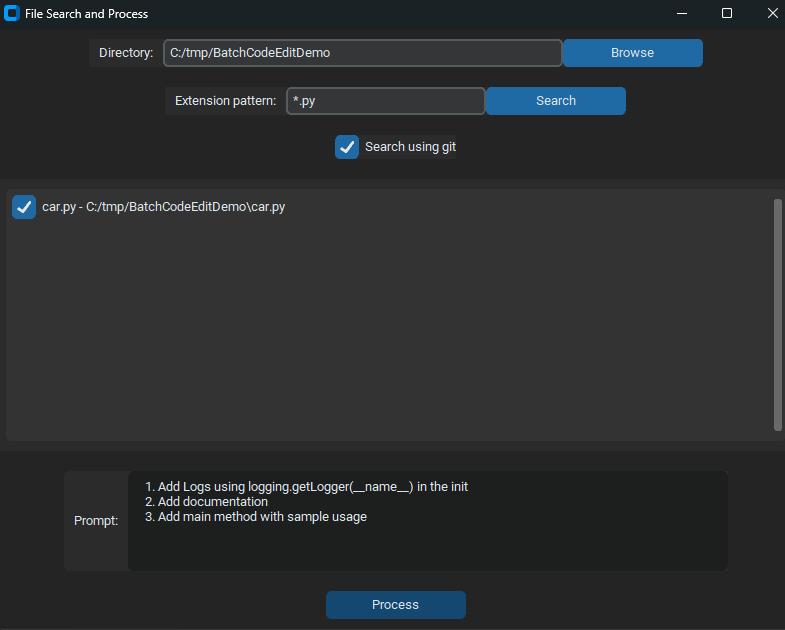
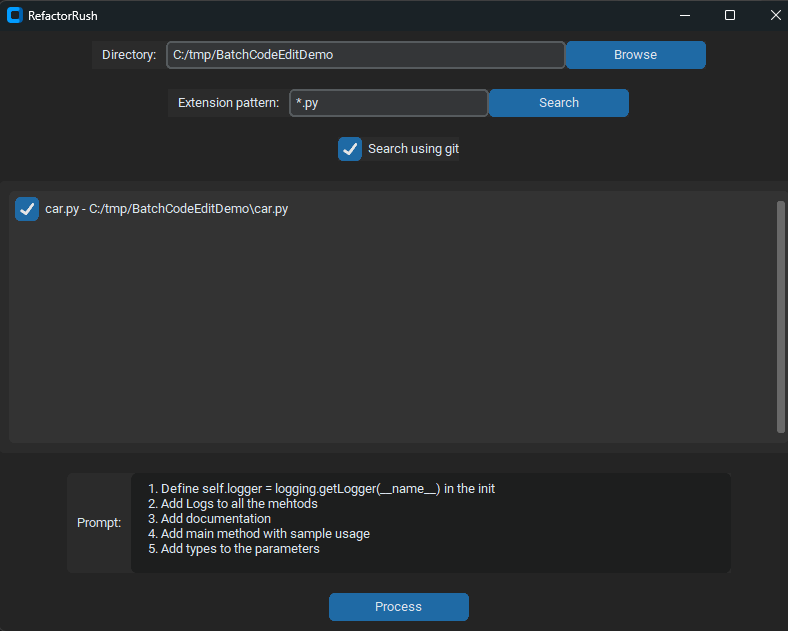
readme creation

diff --git a/program.py b/program.py
@@ -12,7 +12,7 @@ APP_STATE_FILE = "app_state.json"
 class FileSearchApp(ctk.CTk):
     def __init__(self):
         super().__init__()
-        self.title("File Search and Process")
+        self.title("RefactorRush")
         self.geometry("800x600")
         self.directory = ctk.StringVar()
         self.pattern = ctk.StringVar()

diff --git a/file_processing.py b/file_processing.py
@@ -16,7 +16,3 @@ class FileProcessingClass:
         with open(file_path, 'w') as file:
             file.write(result.content)
 
-    def test(self, question):
-        result = self.llm.invoke(question)
-        print(result.content)
-
